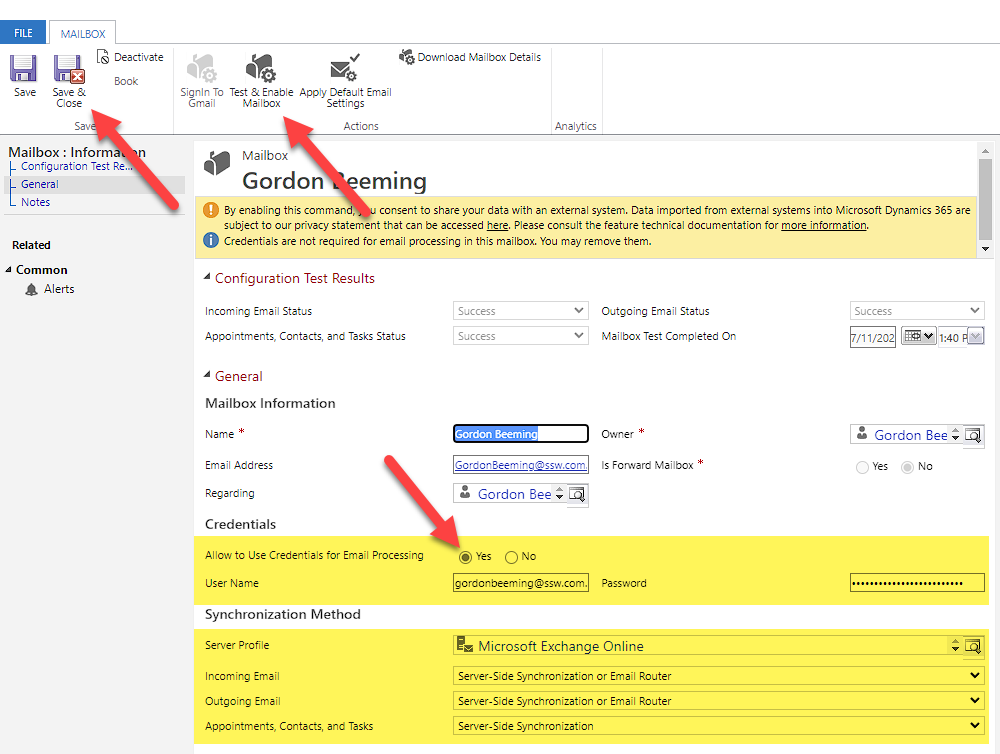
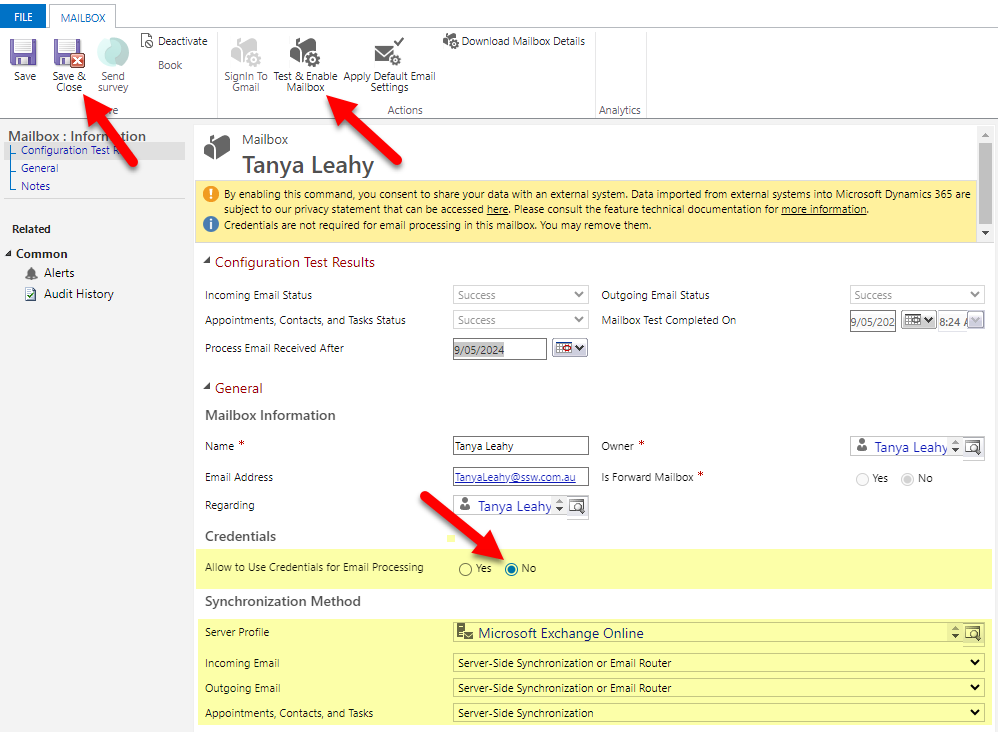
update-screenshots-and-remove-password-instruction

diff --git a/rules/set-up-your-mailbox-in-crm/rule.md b/rules/set-up-your-mailbox-in-crm/rule.md
@@ -20,13 +20,12 @@ Do the following:
 
 1. Browse to your Dynamics 365 Online URL | Advanced Settings | Settings | Email Configuration | Mailboxes | Browse for your mailbox:
 
-![Figure: You should see your mailbox. Click the link on Name and it will open up your mailbox settings](crm-open-meilbox-settings.png)
+![Figure: You should see your mailbox. Click the link on Name and it will open up your mailbox settings](crm-open-mailbox-settings.png)
 
 2. Make sure the following options are set (they might differ a bit depending on your CRM configuration):
 
-   * **Allow to Use Credentials for Email Processing:** Yes
-   * **User Name:** &lt;<YourUserName@yourcompany.com>&gt;
-   * **Password:** &lt;YourPassword&gt;
+   * **Allow to Use Credentials for Email Processing:** No
+   * **User Name:** &lt;<YourUserName@yourcompany.com>&gt;  
    * **Server Profile:** Microsoft Exchange Online
    * **Incoming Mail:** Server-Side Synchronization or Email Router
    * **Outgoing Mail:** Server-Side Synchronization or Email Router
